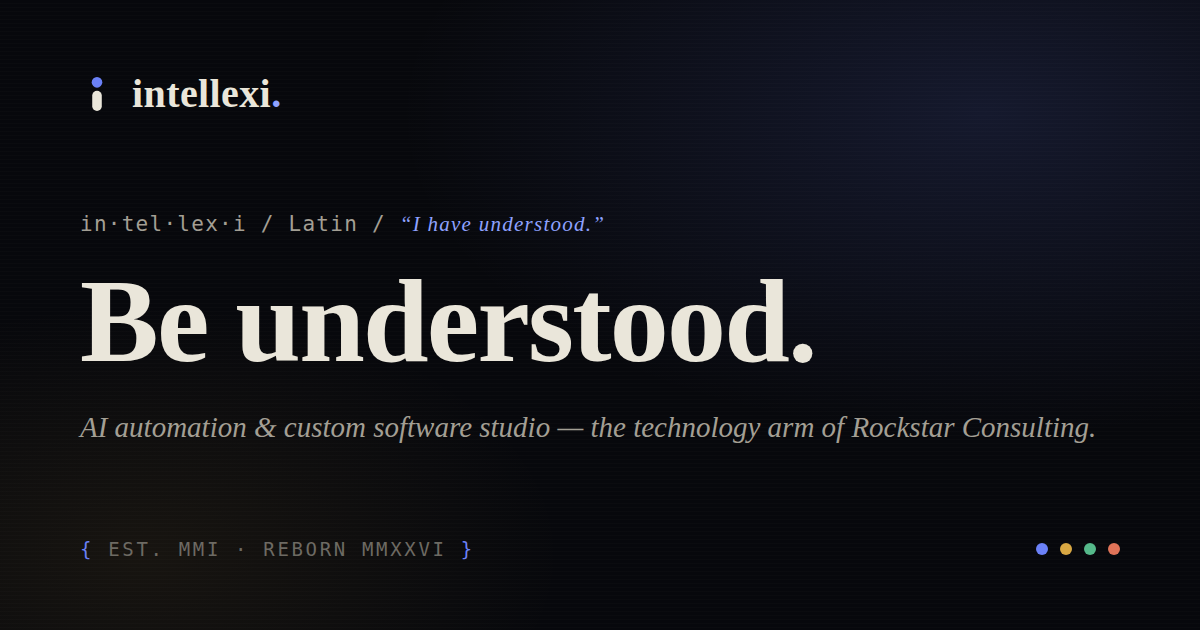
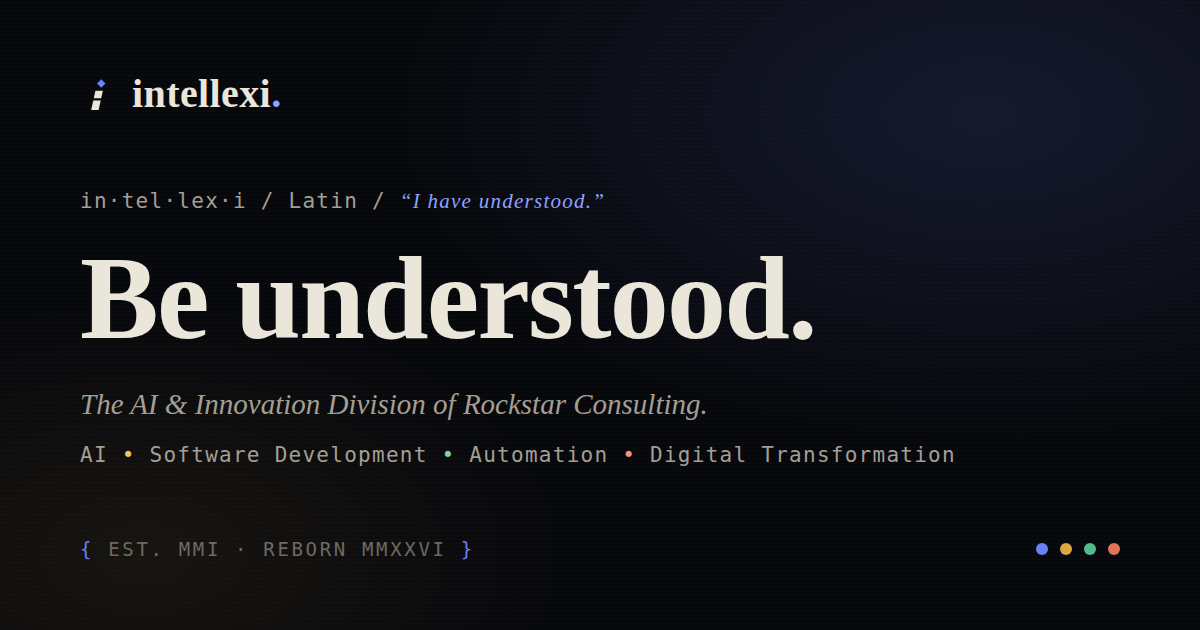
Reposition as the AI & Innovation Division of Rockstar Consulting; sharpen the mark
- 'The AI & Innovation Division of Rockstar Consulting' replaces all
  'technology arm' / 'a Rockstar Consulting company' wording across
  pages, meta tags, JSON-LD, footers, and README
- Division masthead in the hero: braced kicker with the four practices
  beneath it — AI / Software Development / Automation / Digital
  Transformation — separated by heritage-tint bullets; same line
  echoed in every footer
- New brand mark: the 2001 person-as-i figure sharpened into a
  forward-leaning italic form — diamond head, sheared body, signal cut;
  applied to favicon, inline marks, apple-touch-icon, and og image
- og.png regenerated with the new mark, division line, and practices
- axe WCAG AA audit still passes clean on all pages

Claude-Session: https://claude.ai/code/session_01KKx4zzoC14RzM2BGQFs6Nb

diff --git a/index.html b/index.html
@@ -4,10 +4,10 @@
   <meta charset="utf-8">
   <meta name="viewport" content="width=device-width, initial-scale=1">
   <title>Intellexi — Be Understood. AI Automation &amp; Custom Software Studio</title>
-  <meta name="description" content="Intellexi is an AI automation and custom software studio — the technology arm of Rockstar Consulting. Est. 2001 as a multimedia company, reborn to turn ideas into intelligent software.">
+  <meta name="description" content="Intellexi is an AI automation and custom software studio — the AI &amp; Innovation Division of Rockstar Consulting. Est. 2001 as a multimedia company, reborn to turn ideas into intelligent software.">
   <meta name="theme-color" content="#07080c">
   <meta property="og:title" content="Intellexi — Be Understood.">
-  <meta property="og:description" content="AI automation and custom software studio. Est. 2001, reborn for the intelligent era. The technology arm of Rockstar Consulting.">
+  <meta property="og:description" content="AI automation and custom software studio. Est. 2001, reborn for the intelligent era. The AI &amp; Innovation Division of Rockstar Consulting.">
   <meta property="og:type" content="website">
   <meta property="og:image" content="https://intellexi.io/assets/img/og.png">
   <meta property="og:image:width" content="1200">
@@ -25,7 +25,7 @@
   <header class="site-header">
     <div class="container site-header__inner">
       <a class="brand" href="./" aria-label="Intellexi — home">
-        <svg class="brand-mark" viewBox="0 0 64 64" aria-hidden="true"><circle cx="32" cy="10" r="10" fill="#6b81f7"/><rect x="23" y="26" width="18" height="38" rx="9" fill="currentColor"/></svg>
+        <svg class="brand-mark" viewBox="0 0 64 64" aria-hidden="true"><polygon points="40,4 48,12 40,20 32,12" fill="#6b81f7"/><polygon points="29,26 43,26 39.9,40 25.9,40" fill="currentColor"/><polygon points="25,44 39,44 35,62 21,62" fill="currentColor"/></svg>
         <span>intellexi<span class="brand-dot">.</span></span>
       </a>
       <button class="nav-toggle" aria-expanded="false" aria-controls="site-nav">{ menu }</button>
@@ -44,14 +44,24 @@
     <section class="hero scanlines">
       <div class="hero-canvas" aria-hidden="true"></div>
       <div class="container">
-        <p class="hero-defn defn reveal">
+        <p class="kicker reveal" style="margin-bottom:.75rem">The AI &amp; Innovation Division of Rockstar Consulting</p>
+        <p class="disciplines reveal" style="--reveal-delay:.05s">
+          <span>AI</span>
+          <span class="dsep" aria-hidden="true" style="color:var(--gold-bright)">&#8226;</span>
+          <span>Software Development</span>
+          <span class="dsep" aria-hidden="true" style="color:var(--green-bright)">&#8226;</span>
+          <span>Automation</span>
+          <span class="dsep" aria-hidden="true" style="color:var(--coral-bright)">&#8226;</span>
+          <span>Digital Transformation</span>
+        </p>
+        <p class="hero-defn defn reveal" style="--reveal-delay:.1s">
           <span class="defn-word">in&#183;tel&#183;lex&#183;i</span>
           <span class="defn-pos">&nbsp;/ Latin, perfect tense /</span>
           <span class="defn-sense">&nbsp;&ldquo;I have understood.&rdquo;</span>
         </p>
-        <h1 class="display reveal" style="--reveal-delay:.08s" data-decode>Be understood.</h1>
-        <p class="lede reveal" style="--reveal-delay:.16s">In 2001, Intellexi helped companies be understood by people. Today, we build the systems that understand you back — <strong>AI automation, custom software, and intelligent products</strong> that transform how your business works.</p>
-        <div class="hero-cta reveal" style="--reveal-delay:.24s">
+        <h1 class="display reveal" style="--reveal-delay:.14s" data-decode>Be understood.</h1>
+        <p class="lede reveal" style="--reveal-delay:.2s">In 2001, Intellexi helped companies be understood by people. Today, we build the systems that understand you back — <strong>AI automation, custom software, and intelligent products</strong> that transform how your business works.</p>
+        <div class="hero-cta reveal" style="--reveal-delay:.26s">
           <a class="btn btn--solid" href="#contact">Start a project <span class="chev">&#187;</span></a>
           <a class="btn btn--ghost" href="story/">Our story <span class="chev">&#187;</span></a>
         </div>
@@ -108,7 +118,7 @@
         <div class="grid-2">
           <div class="prose reveal">
             <p>Intellexi began in the first era of the web — a multimedia and communications studio with one promise: <strong>get your message across.</strong> The tools were CD-ROMs and Flash. The craft was making technology speak human.</p>
-            <p>The tools changed. The craft didn&rsquo;t. Today Intellexi is the technology and software arm of <a href="https://www.rockstar.one/" rel="noopener">Rockstar Consulting</a>, applying that same craft to a bigger promise: software that understands your business — and transforms it.</p>
+            <p>The tools changed. The craft didn&rsquo;t. Today Intellexi is the AI &amp; Innovation Division of <a href="https://www.rockstar.one/" rel="noopener">Rockstar Consulting</a>, applying that same craft to a bigger promise: software that understands your business — and transforms it.</p>
           </div>
           <div class="prose reveal" style="--reveal-delay:.1s">
             <p><strong>We don&rsquo;t sell programming. We sell what your company becomes with it:</strong> workflows that run themselves, tools shaped to the way you actually work, products that ship in weeks instead of quarters, and decisions made with machines that finally understand the question.</p>
@@ -271,7 +281,7 @@
     <section class="section band" aria-labelledby="rockstar-title">
       <div class="container">
         <p class="kicker reveal">Strategy &#215; Engineering</p>
-        <h2 id="rockstar-title" class="reveal">The technology arm of Rockstar Consulting.</h2>
+        <h2 id="rockstar-title" class="reveal">The AI &amp; Innovation Division of Rockstar Consulting.</h2>
         <div class="prose reveal">
           <p><a href="https://www.rockstar.one/" rel="noopener">Rockstar Consulting</a> helps businesses scale with AI — strategy, systems, and transformation. Intellexi is where that strategy becomes running software. One partner charts the change; the other builds it. You get both.</p>
         </div>
@@ -297,10 +307,11 @@
       <div class="site-footer__grid">
         <div>
           <a class="brand" href="./" aria-label="Intellexi — home">
-            <svg class="brand-mark" viewBox="0 0 64 64" aria-hidden="true"><circle cx="32" cy="10" r="10" fill="#6b81f7"/><rect x="23" y="26" width="18" height="38" rx="9" fill="currentColor"/></svg>
+            <svg class="brand-mark" viewBox="0 0 64 64" aria-hidden="true"><polygon points="40,4 48,12 40,20 32,12" fill="#6b81f7"/><polygon points="29,26 43,26 39.9,40 25.9,40" fill="currentColor"/><polygon points="25,44 39,44 35,62 21,62" fill="currentColor"/></svg>
             <span>intellexi<span class="brand-dot">.</span></span>
           </a>
           <p class="footer-tagline">From the first era of the web to the intelligent one. Be understood.</p>
+          <p class="disciplines disciplines--footer"><span>AI</span> <span class="dsep" aria-hidden="true" style="color:var(--gold-bright)">&#8226;</span> <span>Software Development</span> <span class="dsep" aria-hidden="true" style="color:var(--green-bright)">&#8226;</span> <span>Automation</span> <span class="dsep" aria-hidden="true" style="color:var(--coral-bright)">&#8226;</span> <span>Digital Transformation</span></p>
         </div>
         <nav aria-label="Footer">
           <p class="footer-head">Site</p>
@@ -316,7 +327,7 @@
         </nav>
       </div>
       <div class="footer-meta">
-        <span class="braces">&#169; 2001&ndash;<span id="year">2026</span> Intellexi &#124; A Rockstar Consulting company</span>
+        <span class="braces">&#169; 2001&ndash;<span id="year">2026</span> Intellexi &#124; The AI &amp; Innovation Division of Rockstar Consulting</span>
         <span class="braces">est. MMI &#183; reborn MMXXVI</span>
       </div>
     </div>
@@ -329,10 +340,10 @@
     "name": "Intellexi",
     "url": "https://intellexi.io/",
     "logo": "https://intellexi.io/assets/img/apple-touch-icon.png",
-    "email": "info@intellexi.com",
+    "email": "info@intellexi.io",
     "slogan": "Be Understood.",
     "foundingDate": "2001",
-    "description": "AI automation and custom software studio — the technology arm of Rockstar Consulting.",
+    "description": "AI automation and custom software studio — the AI & Innovation Division of Rockstar Consulting. AI, software development, automation, and digital transformation.",
     "parentOrganization": {
       "@type": "Organization",
       "name": "Rockstar Consulting",

diff --git a/story/index.html b/story/index.html
@@ -25,7 +25,7 @@
   <header class="site-header">
     <div class="container site-header__inner">
       <a class="brand" href="../" aria-label="Intellexi — home">
-        <svg class="brand-mark" viewBox="0 0 64 64" aria-hidden="true"><circle cx="32" cy="10" r="10" fill="#6b81f7"/><rect x="23" y="26" width="18" height="38" rx="9" fill="currentColor"/></svg>
+        <svg class="brand-mark" viewBox="0 0 64 64" aria-hidden="true"><polygon points="40,4 48,12 40,20 32,12" fill="#6b81f7"/><polygon points="29,26 43,26 39.9,40 25.9,40" fill="currentColor"/><polygon points="25,44 39,44 35,62 21,62" fill="currentColor"/></svg>
         <span>intellexi<span class="brand-dot">.</span></span>
       </a>
       <button class="nav-toggle" aria-expanded="false" aria-controls="site-nav">{ menu }</button>
@@ -90,7 +90,7 @@
         <h2 id="act2-title" class="reveal">I have understood.</h2>
         <div class="grid-2">
           <div class="prose reveal">
-            <p>So Intellexi returns — not as nostalgia, but as the company it was always pointed at. The second act is an <strong>AI automation and custom software studio</strong>: the technology and software arm of Rockstar Consulting, turning ideas into intelligent systems, internal tools, customer platforms, and products.</p>
+            <p>So Intellexi returns — not as nostalgia, but as the company it was always pointed at. The second act is an <strong>AI automation and custom software studio</strong>: the AI &amp; Innovation Division of Rockstar Consulting, turning ideas into intelligent systems, internal tools, customer platforms, and products.</p>
             <p>The continuity is real, not sentimental. In 2001, the craft was making technology understandable to people. In 2026, it&rsquo;s making technology that understands people — their work, their documents, their decisions — and then quietly takes the mechanical parts off their hands.</p>
           </div>
           <div class="prose reveal" style="--reveal-delay:.1s">
@@ -130,7 +130,7 @@
           <li>
             <span class="tl-date">2026</span>
             <h3>The second act</h3>
-            <p>Intellexi is revived as an AI automation and custom software studio — the technology arm of Rockstar Consulting. Same name. Same promise. New medium.</p>
+            <p>Intellexi is revived as an AI automation and custom software studio — the AI &amp; Innovation Division of Rockstar Consulting. Same name. Same promise. New medium.</p>
           </li>
         </ol>
       </div>
@@ -154,10 +154,11 @@
       <div class="site-footer__grid">
         <div>
           <a class="brand" href="../" aria-label="Intellexi — home">
-            <svg class="brand-mark" viewBox="0 0 64 64" aria-hidden="true"><circle cx="32" cy="10" r="10" fill="#6b81f7"/><rect x="23" y="26" width="18" height="38" rx="9" fill="currentColor"/></svg>
+            <svg class="brand-mark" viewBox="0 0 64 64" aria-hidden="true"><polygon points="40,4 48,12 40,20 32,12" fill="#6b81f7"/><polygon points="29,26 43,26 39.9,40 25.9,40" fill="currentColor"/><polygon points="25,44 39,44 35,62 21,62" fill="currentColor"/></svg>
             <span>intellexi<span class="brand-dot">.</span></span>
           </a>
           <p class="footer-tagline">From the first era of the web to the intelligent one. Be understood.</p>
+          <p class="disciplines disciplines--footer"><span>AI</span> <span class="dsep" aria-hidden="true" style="color:var(--gold-bright)">&#8226;</span> <span>Software Development</span> <span class="dsep" aria-hidden="true" style="color:var(--green-bright)">&#8226;</span> <span>Automation</span> <span class="dsep" aria-hidden="true" style="color:var(--coral-bright)">&#8226;</span> <span>Digital Transformation</span></p>
         </div>
         <nav aria-label="Footer">
           <p class="footer-head">Site</p>
@@ -173,7 +174,7 @@
         </nav>
       </div>
       <div class="footer-meta">
-        <span class="braces">&#169; 2001&ndash;<span id="year">2026</span> Intellexi &#124; A Rockstar Consulting company</span>
+        <span class="braces">&#169; 2001&ndash;<span id="year">2026</span> Intellexi &#124; The AI &amp; Innovation Division of Rockstar Consulting</span>
         <span class="braces">est. MMI &#183; reborn MMXXVI</span>
       </div>
     </div>

diff --git a/capabilities/index.html b/capabilities/index.html
@@ -25,7 +25,7 @@
   <header class="site-header">
     <div class="container site-header__inner">
       <a class="brand" href="../" aria-label="Intellexi — home">
-        <svg class="brand-mark" viewBox="0 0 64 64" aria-hidden="true"><circle cx="32" cy="10" r="10" fill="#6b81f7"/><rect x="23" y="26" width="18" height="38" rx="9" fill="currentColor"/></svg>
+        <svg class="brand-mark" viewBox="0 0 64 64" aria-hidden="true"><polygon points="40,4 48,12 40,20 32,12" fill="#6b81f7"/><polygon points="29,26 43,26 39.9,40 25.9,40" fill="currentColor"/><polygon points="25,44 39,44 35,62 21,62" fill="currentColor"/></svg>
         <span>intellexi<span class="brand-dot">.</span></span>
       </a>
       <button class="nav-toggle" aria-expanded="false" aria-controls="site-nav">{ menu }</button>
@@ -166,7 +166,7 @@
             <span class="card-index">{ C }</span>
             <h3>Embedded Studio</h3>
             <span class="card-tag">Ongoing</span>
-            <p>Intellexi as your standing technology arm — the same role we play for Rockstar Consulting — shipping, maintaining, and evolving your systems month after month.</p>
+            <p>Intellexi as your standing AI &amp; innovation division — the same role we play inside Rockstar Consulting — shipping, maintaining, and evolving your systems month after month.</p>
           </article>
         </div>
         <div class="prose reveal" style="margin-top:2.6rem">
@@ -190,10 +190,11 @@
       <div class="site-footer__grid">
         <div>
           <a class="brand" href="../" aria-label="Intellexi — home">
-            <svg class="brand-mark" viewBox="0 0 64 64" aria-hidden="true"><circle cx="32" cy="10" r="10" fill="#6b81f7"/><rect x="23" y="26" width="18" height="38" rx="9" fill="currentColor"/></svg>
+            <svg class="brand-mark" viewBox="0 0 64 64" aria-hidden="true"><polygon points="40,4 48,12 40,20 32,12" fill="#6b81f7"/><polygon points="29,26 43,26 39.9,40 25.9,40" fill="currentColor"/><polygon points="25,44 39,44 35,62 21,62" fill="currentColor"/></svg>
             <span>intellexi<span class="brand-dot">.</span></span>
           </a>
           <p class="footer-tagline">From the first era of the web to the intelligent one. Be understood.</p>
+          <p class="disciplines disciplines--footer"><span>AI</span> <span class="dsep" aria-hidden="true" style="color:var(--gold-bright)">&#8226;</span> <span>Software Development</span> <span class="dsep" aria-hidden="true" style="color:var(--green-bright)">&#8226;</span> <span>Automation</span> <span class="dsep" aria-hidden="true" style="color:var(--coral-bright)">&#8226;</span> <span>Digital Transformation</span></p>
         </div>
         <nav aria-label="Footer">
           <p class="footer-head">Site</p>
@@ -209,7 +210,7 @@
         </nav>
       </div>
       <div class="footer-meta">
-        <span class="braces">&#169; 2001&ndash;<span id="year">2026</span> Intellexi &#124; A Rockstar Consulting company</span>
+        <span class="braces">&#169; 2001&ndash;<span id="year">2026</span> Intellexi &#124; The AI &amp; Innovation Division of Rockstar Consulting</span>
         <span class="braces">est. MMI &#183; reborn MMXXVI</span>
       </div>
     </div>

diff --git a/assets/css/main.css b/assets/css/main.css
@@ -462,6 +462,27 @@ h3,
   color: var(--text-faint);
 }
 
+/* Disciplines — the division's four practices */
+.disciplines {
+  display: flex;
+  flex-wrap: wrap;
+  align-items: baseline;
+  gap: 0.4rem 0.85rem;
+  font-family: var(--mono);
+  font-size: var(--step--2);
+  letter-spacing: 0.15em;
+  text-transform: uppercase;
+  color: var(--text-dim);
+}
+.disciplines .dsep {
+  letter-spacing: 0;
+}
+.disciplines--footer {
+  margin-top: 1.1rem;
+  font-size: 0.72rem;
+  color: var(--text-faint);
+}
+
 /* Dictionary entry — the name, defined */
 .defn {
   font-family: var(--serif);
@@ -878,6 +899,7 @@ h3,
   margin-top: 2.4rem;
 }
 .hero-defn {
+  margin-top: 2.4rem;
   margin-bottom: 2.2rem;
   font-size: var(--step--1);
 }

diff --git a/README.md b/README.md
@@ -1,7 +1,8 @@
 # Intellexi — intellexi.com
 
-**Est. 2001 as a multimedia & communications studio. Reborn 2026 as an AI automation
-and custom software studio — the technology arm of [Rockstar Consulting](https://www.rockstar.one/).**
+**Est. 2001 as a multimedia & communications studio. Reborn 2026 as the
+AI & Innovation Division of [Rockstar Consulting](https://www.rockstar.one/) —
+AI · Software Development · Automation · Digital Transformation.**
 
 *intellexi* — Latin, perfect tense of *intellegere*: **"I have understood."**
 The original tagline, "Be Understood," is still the promise.
